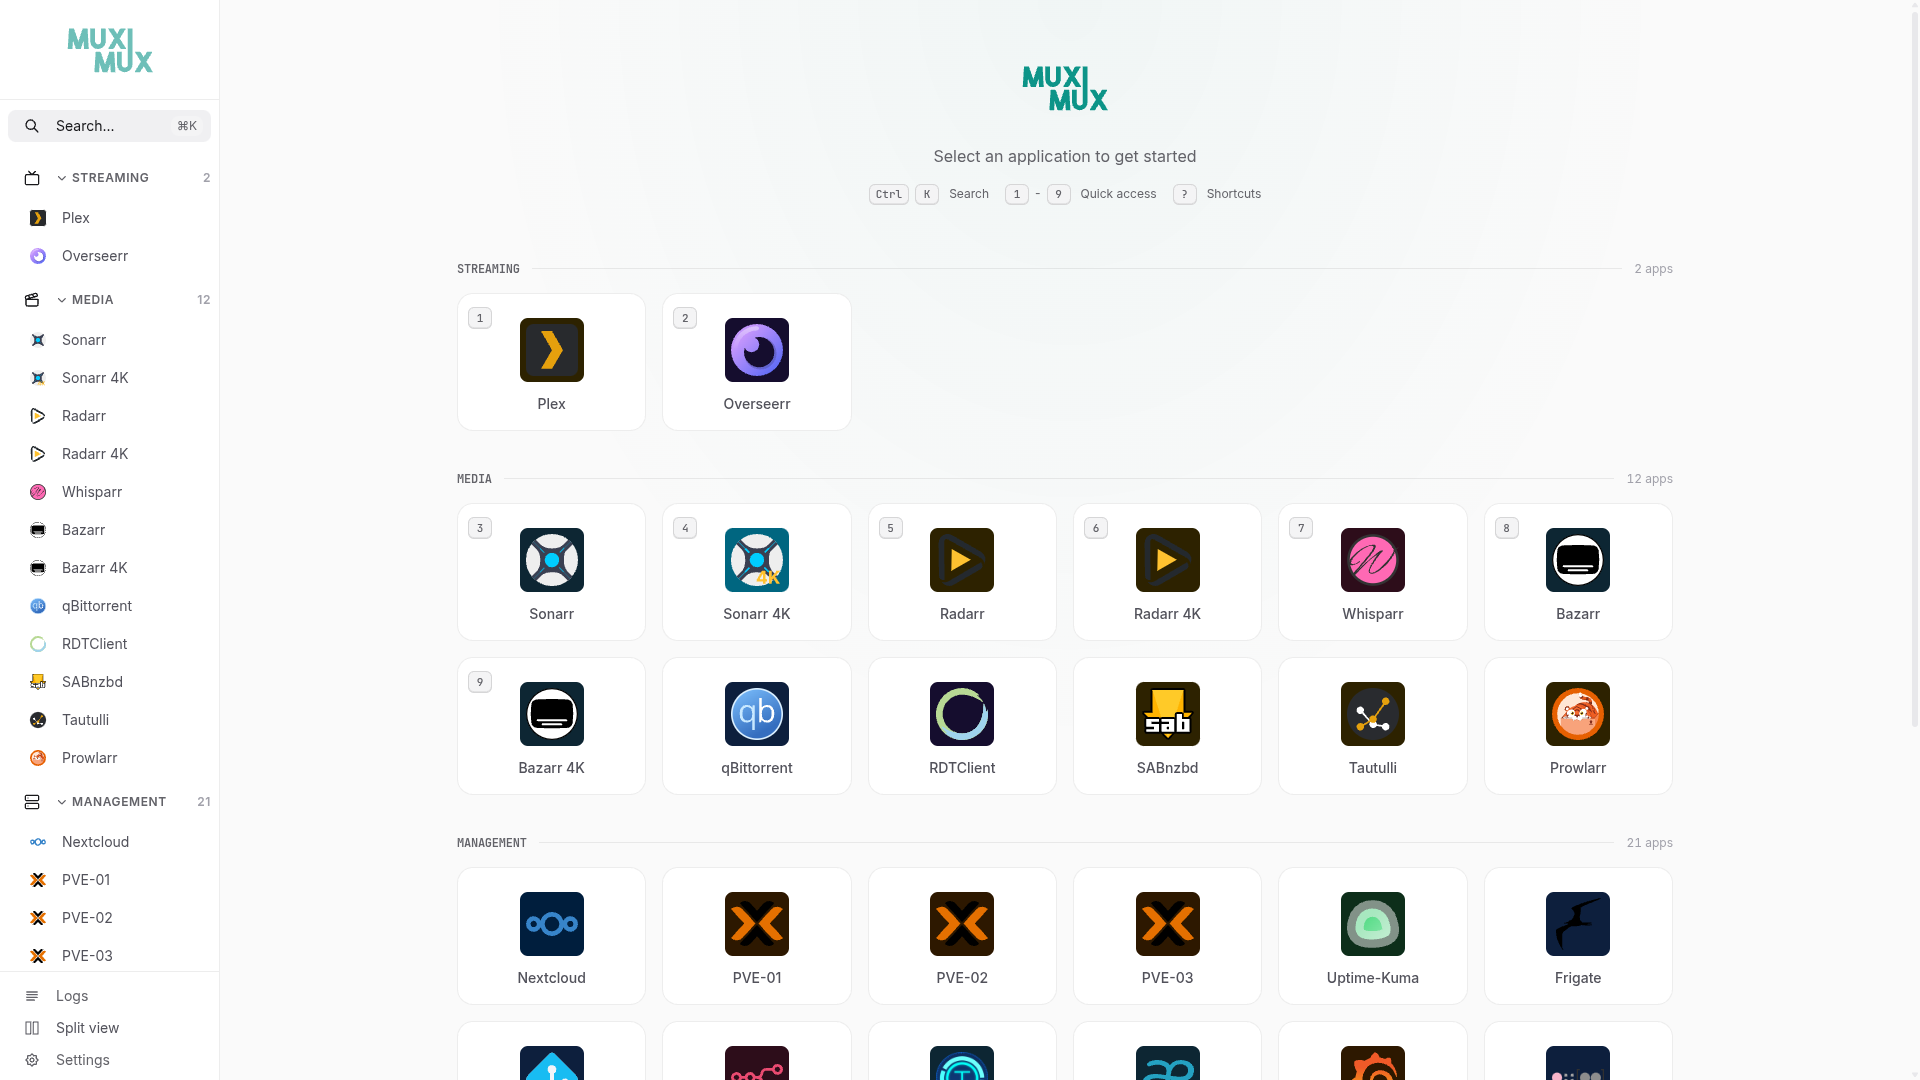
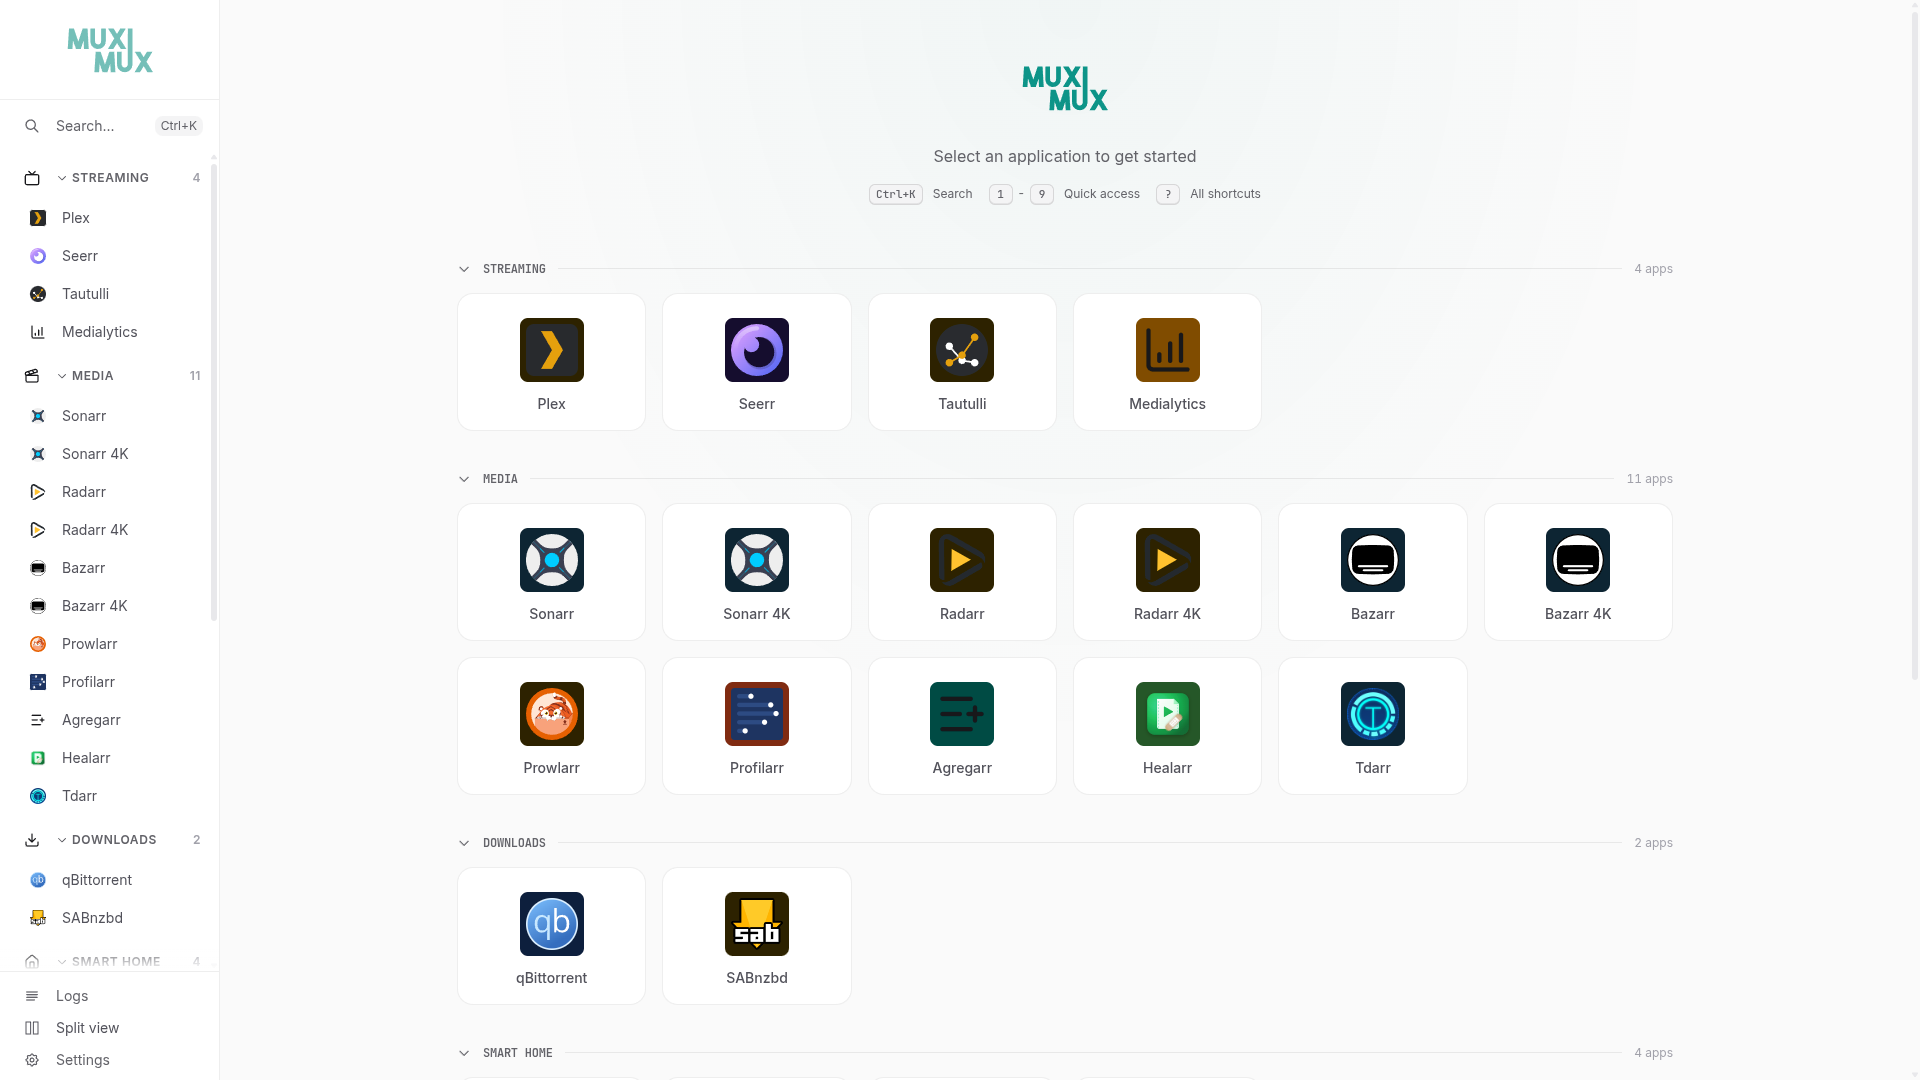
Retake screenshots, document forwarded_headers and mobile
Screenshots were stale in several ways: they showed apps that should not
appear in project documentation, predated the setup-token step in
onboarding, and predated the Seerr rename. 02-security and 08-done were
already current and are unchanged.

Adds mobile screenshots to the README gallery and the wiki's Mobile
section, a Forwarded Headers section to the apps page with the curl pair
that diagnoses the 400, and corrects the claim that the mobile navigation
button is always bottom-right -- it follows floating_position.

diff --git a/docs/wiki/authentication.md b/docs/wiki/authentication.md
@@ -323,7 +323,7 @@ A user with no groups passes the role gate but fails any non-empty `allowed_grou
 
 ## API Key Authentication
 
-Muximux supports an instance-wide API key that non-browser integrations (scripts, webhooks, other services) can present in the `X-Api-Key` header instead of a session cookie. The key is what lets a tool like Overseerr or a cron job reach Muximux without having to maintain a logged-in session.
+Muximux supports an instance-wide API key that non-browser integrations (scripts, webhooks, other services) can present in the `X-Api-Key` header instead of a session cookie. The key is what lets a tool like Seerr or a cron job reach Muximux without having to maintain a logged-in session.
 
 **Important scope note:** the API key is not a universal bypass. It only authenticates requests whose path has been **allowlisted** with `require_api_key: true`. Everything else still requires a session cookie. This keeps a leaked key's blast radius bounded to exactly the endpoints the operator has opted in.
 
@@ -337,7 +337,7 @@ Out of the box, these paths accept `X-Api-Key`:
 
 Additionally, operators can allowlist **per-app proxy paths** via `auth_bypass` on each proxied app. This is the common integration pattern: expose a backend app's own API (e.g. Sonarr's `/api/v3/*`) through the Muximux reverse proxy, gated by the Muximux API key at the front door. See [Apps > Per-App Auth Bypass](apps.md#per-app-auth-bypass) for the full setup.
 
-#### Example 1: Overseerr calling Sonarr through Muximux
+#### Example 1: Seerr calling Sonarr through Muximux
 
 ```yaml
 apps:
@@ -354,7 +354,7 @@ apps:
         require_api_key: true
 ```
 
-Overseerr calls:
+Seerr calls:
 
 ```bash
 curl -H "X-Api-Key: $MUXIMUX_API_KEY" \
@@ -457,7 +457,7 @@ Muximux authentication controls access to the **Muximux dashboard and its API**.
 
 - **With `proxy: true`, no `auth_bypass`** -- Requests to the app go through Muximux's built-in reverse proxy, where a Muximux login session is required. Users must be logged in to reach the app. This is the secure option for interactive use.
 
-- **With `proxy: true` and `auth_bypass` rules** -- Specific paths on the proxied app can be opened to non-browser integrations that present the Muximux API key (see [Per-App Auth Bypass](apps.md#per-app-auth-bypass) and the Sonarr / Overseerr example in [API Key Authentication](#api-key-authentication)). Muximux still sits in the request path, so: the Muximux API key gates the front door, and `proxy_headers` injects the backend's own credentials on the way through -- the external caller never sees the backend's key. This is how you expose a backend API to another service without giving that service a Muximux login.
+- **With `proxy: true` and `auth_bypass` rules** -- Specific paths on the proxied app can be opened to non-browser integrations that present the Muximux API key (see [Per-App Auth Bypass](apps.md#per-app-auth-bypass) and the Sonarr / Seerr example in [API Key Authentication](#api-key-authentication)). Muximux still sits in the request path, so: the Muximux API key gates the front door, and `proxy_headers` injects the backend's own credentials on the way through -- the external caller never sees the backend's key. This is how you expose a backend API to another service without giving that service a Muximux login.
 
 - **Without `proxy: true`** -- The browser loads the app directly from its own URL (in an iframe, new tab, etc.). Muximux is not in the request path and has no ability to block or authenticate those requests. Anyone who knows the app's URL can access it directly.
 

diff --git a/docs/wiki/apps.md b/docs/wiki/apps.md
@@ -30,6 +30,7 @@ apps:
     proxy_skip_tls_verify: true     # Skip TLS cert verification for proxy (default: true)
     proxy_headers:                  # Custom headers sent to the backend
       X-Api-Key: "your-key"
+    forwarded_headers: true         # Send X-Forwarded-*/X-Real-IP (default true)
     scale: 1.0                      # Zoom level for iframe (0.5 - 2.0)
     health_check: true               # Enable health monitoring (opt-in, disabled by default)
     shortcut: 1                      # Assign keyboard shortcut 1-9
@@ -178,6 +179,39 @@ This is useful when an app is designed for a different screen size, has a minimu
 
 ---
 
+## Forwarded Headers
+
+When proxying an app, Muximux adds the usual reverse-proxy headers to the upstream request: `X-Forwarded-For`, `X-Forwarded-Host`, `X-Forwarded-Proto` and `X-Real-IP`. Most backends want these -- it is how they learn the real client IP and the scheme the browser used.
+
+Some do not. If your backend sits behind its own reverse proxy (Traefik, nginx, Caddy) that is configured to trust forwarded headers only from specific sources, that proxy will **reject the request outright** when Muximux is not in its trusted list. Traefik answers `400 Bad Request`, which surfaces in Muximux as a blank or failed pane with a 400 in the logs.
+
+Set `forwarded_headers: false` on the app to suppress them:
+
+```yaml
+apps:
+  - name: Seerr
+    url: https://request.example.com
+    proxy: true
+    forwarded_headers: false      # backend's reverse proxy rejects X-Forwarded-*
+```
+
+The field defaults to `true`, so omit it unless you hit this. It applies to both the HTTP and the WebSocket paths of the embedding proxy.
+
+The same option exists on [gateway sites](gateway-examples.md) for the same reason, and as the `muximux.gateway.forwarded_headers` [Docker label](docker-discovery.md).
+
+**Diagnosing it:** if a proxied app returns 400 while the same URL loads fine in a browser tab, compare the two directly:
+
+```bash
+curl -s -o /dev/null -w '%{http_code}\n' https://app.example.com/
+curl -s -o /dev/null -w '%{http_code}\n' -H 'X-Forwarded-For: 127.0.0.1' \
+     -H 'X-Forwarded-Proto: http' -H 'X-Forwarded-Host: muximux.example.com' \
+     https://app.example.com/
+```
+
+A `200` followed by a `400` confirms it; set `forwarded_headers: false` and reload.
+
+---
+
 ## Enabling and Disabling Apps
 
 Set `enabled: false` to hide an app from the navigation without removing its configuration:
@@ -228,7 +262,7 @@ Each bypass rule supports the following fields:
 **Common use cases:**
 
 - Allowing RSS feed readers to fetch feeds without a login session
-- Allowing API integrations (e.g., Overseerr calling Sonarr) to communicate through the proxy
+- Allowing API integrations (e.g., Seerr calling Sonarr) to communicate through the proxy
 - Allowing webhook receivers (e.g., from GitHub or notification services) to reach an app endpoint
 
 > **Tip:** Combine `require_api_key` or `allowed_ips` with auth bypass to ensure the endpoint is still protected -- just not by Muximux's session-based login.

diff --git a/CHANGELOG.md b/CHANGELOG.md
@@ -2,6 +2,43 @@
 
 All notable changes to Muximux are documented in this file.
 
+## [3.3.2] - 2026-07-28
+
+A fix release for two layout bugs in 3.3.1, plus an escape hatch for
+backends that sit behind a strict reverse proxy. Drop-in.
+
+### Added
+- **`forwarded_headers` on apps.** Set it to `false` when a proxied backend
+  is fronted by a reverse proxy that only trusts `X-Forwarded-*` from
+  specific sources. Traefik and nginx answer `400 Bad Request` in that
+  situation, which made such a backend impossible to embed at all. The
+  option already existed for gateway sites; it now covers the embedding
+  proxy too, on both the HTTP and WebSocket paths. Defaults to `true`, so
+  nothing changes unless you set it.
+- Clicking a group marker in a flat top or bottom bar now scrolls that
+  group's apps into view. Flat mode has no collapsible sections, so the
+  markers were previously decorative.
+
+### Changed
+- The app catalog now lists **Seerr**, the project Overseerr and Jellyseerr
+  are merging into, and Docker discovery recognises the `seerr/seerr` and
+  `ghcr.io/seerr/seerr` images. The `linuxserver/overseerr` and
+  `fallenbagel/jellyseerr` mappings are unchanged and still report their own
+  names -- those tags remain the pre-merge projects.
+- Screenshots throughout the README and wiki have been retaken, and the
+  mobile view is now documented.
+
+### Fixed
+- **Dashboard tiles were sized to their labels.** A tile for "Home
+  Assistant" came out wider than one for "Pi-hole", so the overview grid was
+  visibly ragged and rows failed to line up. Tiles now fill their grid cell.
+- **The log viewer's message column collapsed to one character wide**,
+  rendering "HTTP request" vertically down the page, one letter per line.
+  Any entry carrying a wide attribute list triggered it, which is most HTTP
+  entries.
+- The mobile navigation button honours `floating_position`; the wiki
+  incorrectly stated it was always bottom-right.
+
 ## [3.3.1] - 2026-07-28
 
 A discoverability and localisation release. The mouse and link shortcuts

diff --git a/docs/wiki/navigation.md b/docs/wiki/navigation.md
@@ -108,7 +108,13 @@ Toggling `auto_hide` in Settings during a session does not retroactively collaps
 
 ## Mobile
 
-On small screens (below 640px), Muximux automatically switches to the **floating** navigation regardless of your configured position. This provides a clean mobile experience with a FAB button in the bottom-right corner that opens the full app list as a popover panel. Your configured position is preserved in settings and takes effect again on wider viewports.
+On small screens (below 640px), Muximux automatically switches to the **floating** navigation regardless of your configured position. This provides a clean mobile experience: a single floating button opens the full app list as a popover panel, leaving the rest of the screen to the app. The button sits in whichever corner `floating_position` names (default `bottom-right`), so it can be moved out of the way of an app's own controls. Your configured position is preserved in settings and takes effect again on wider viewports.
+
+| App open | Navigation open |
+|---|---|
+| [![Mobile - app open](https://raw.githubusercontent.com/mescon/Muximux/main/docs/screenshots/17-mobile.png)](https://raw.githubusercontent.com/mescon/Muximux/main/docs/screenshots/17-mobile.png) | [![Mobile - navigation](https://raw.githubusercontent.com/mescon/Muximux/main/docs/screenshots/18-mobile-menu.png)](https://raw.githubusercontent.com/mescon/Muximux/main/docs/screenshots/18-mobile-menu.png) |
+
+The panel opens anchored to the button rather than filling the screen, so the button stays exactly where you pressed it. With the panel closed, the button is the only Muximux chrome on screen.
 
 Swipe left or right on the main content area to switch between apps.
 

diff --git a/docs/wiki/troubleshooting.md b/docs/wiki/troubleshooting.md
@@ -55,7 +55,7 @@ Muximux includes a runtime URL interceptor that handles most of these cases auto
 | `location.pathname` checks | `if (location.pathname === '/login')` | Reads the current path which includes the proxy prefix |
 | Inline event handlers | `<div onclick="go('/page')">` | URL in HTML attribute, not intercepted by runtime patches |
 
-**Workaround:** If the app supports a "base URL", "URL base", or "path prefix" setting in its own configuration, set it to `/proxy/{slug}`. This tells the app to prepend the correct prefix when building URLs, solving the problem at the source. Many popular apps support this (Sonarr, Radarr, Prowlarr, Lidarr, Bazarr, Overseerr, Tautulli, etc.).
+**Workaround:** If the app supports a "base URL", "URL base", or "path prefix" setting in its own configuration, set it to `/proxy/{slug}`. This tells the app to prepend the correct prefix when building URLs, solving the problem at the source. Many popular apps support this (Sonarr, Radarr, Prowlarr, Lidarr, Bazarr, Seerr, Tautulli, etc.).
 
 ### Single-Page App (SPA) Routing Issues
 

diff --git a/README.md b/README.md
@@ -53,6 +53,11 @@ One binary. One port. One YAML config file.
 <td align="center"><a href="docs/screenshots/15-split-vertical.png"><img src="docs/screenshots/15-split-vertical.png" width="280" alt="Split View - Vertical"></a><br><sub>Split View - Vertical</sub></td>
 <td align="center"><a href="docs/screenshots/16-command-palette.png"><img src="docs/screenshots/16-command-palette.png" width="280" alt="Command Palette"></a><br><sub>Command Palette</sub></td>
 </tr>
+<tr>
+<td align="center"><a href="docs/screenshots/17-mobile.png"><img src="docs/screenshots/17-mobile.png" width="140" alt="Mobile - App Open"></a><br><sub>Mobile - App Open</sub></td>
+<td align="center"><a href="docs/screenshots/18-mobile-menu.png"><img src="docs/screenshots/18-mobile-menu.png" width="140" alt="Mobile - Navigation"></a><br><sub>Mobile - Navigation</sub></td>
+<td></td>
+</tr>
 </table>
 </details>
 

diff --git a/docs/wiki/getting-started.md b/docs/wiki/getting-started.md
@@ -40,7 +40,7 @@ This step uses a two-column layout (single column on mobile):
 
 Below the Docker card, browse popular self-hosted application templates organized by category:
 
-- **Media** -- Plex, Jellyfin, Emby, Tautulli, Overseerr, Navidrome
+- **Media** -- Plex, Jellyfin, Emby, Tautulli, Seerr, Navidrome
 - **Downloads** -- Sonarr, Radarr, Lidarr, Prowlarr, qBittorrent, SABnzbd, NZBGet, Transmission, Deluge
 - **System** -- Portainer, Proxmox, Unraid, TrueNAS, Home Assistant, Pi-hole, AdGuard Home, Nginx Proxy Manager, Traefik, Grafana, Prometheus, Uptime Kuma
 - **Utilities** -- Vaultwarden, Nextcloud, Photoprism, Immich, Paperless-ngx, Gitea, Code Server, Syncthing, Mealie, Bookstack

diff --git a/docs/wiki/reverse-proxy.md b/docs/wiki/reverse-proxy.md
@@ -300,5 +300,5 @@ The following apps have been tested with the built-in reverse proxy and runtime 
 |---|---|---|
 | Plex | Works | Full support including posters, PIN auth, WebSocket, media playback |
 | Sonarr/Radarr/Lidarr | Works | Set base URL to `/proxy/{slug}` for best results |
-| Overseerr | Works | |
+| Seerr | Works | |
 | Tautulli | Works | Set URL base in Tautulli settings |
